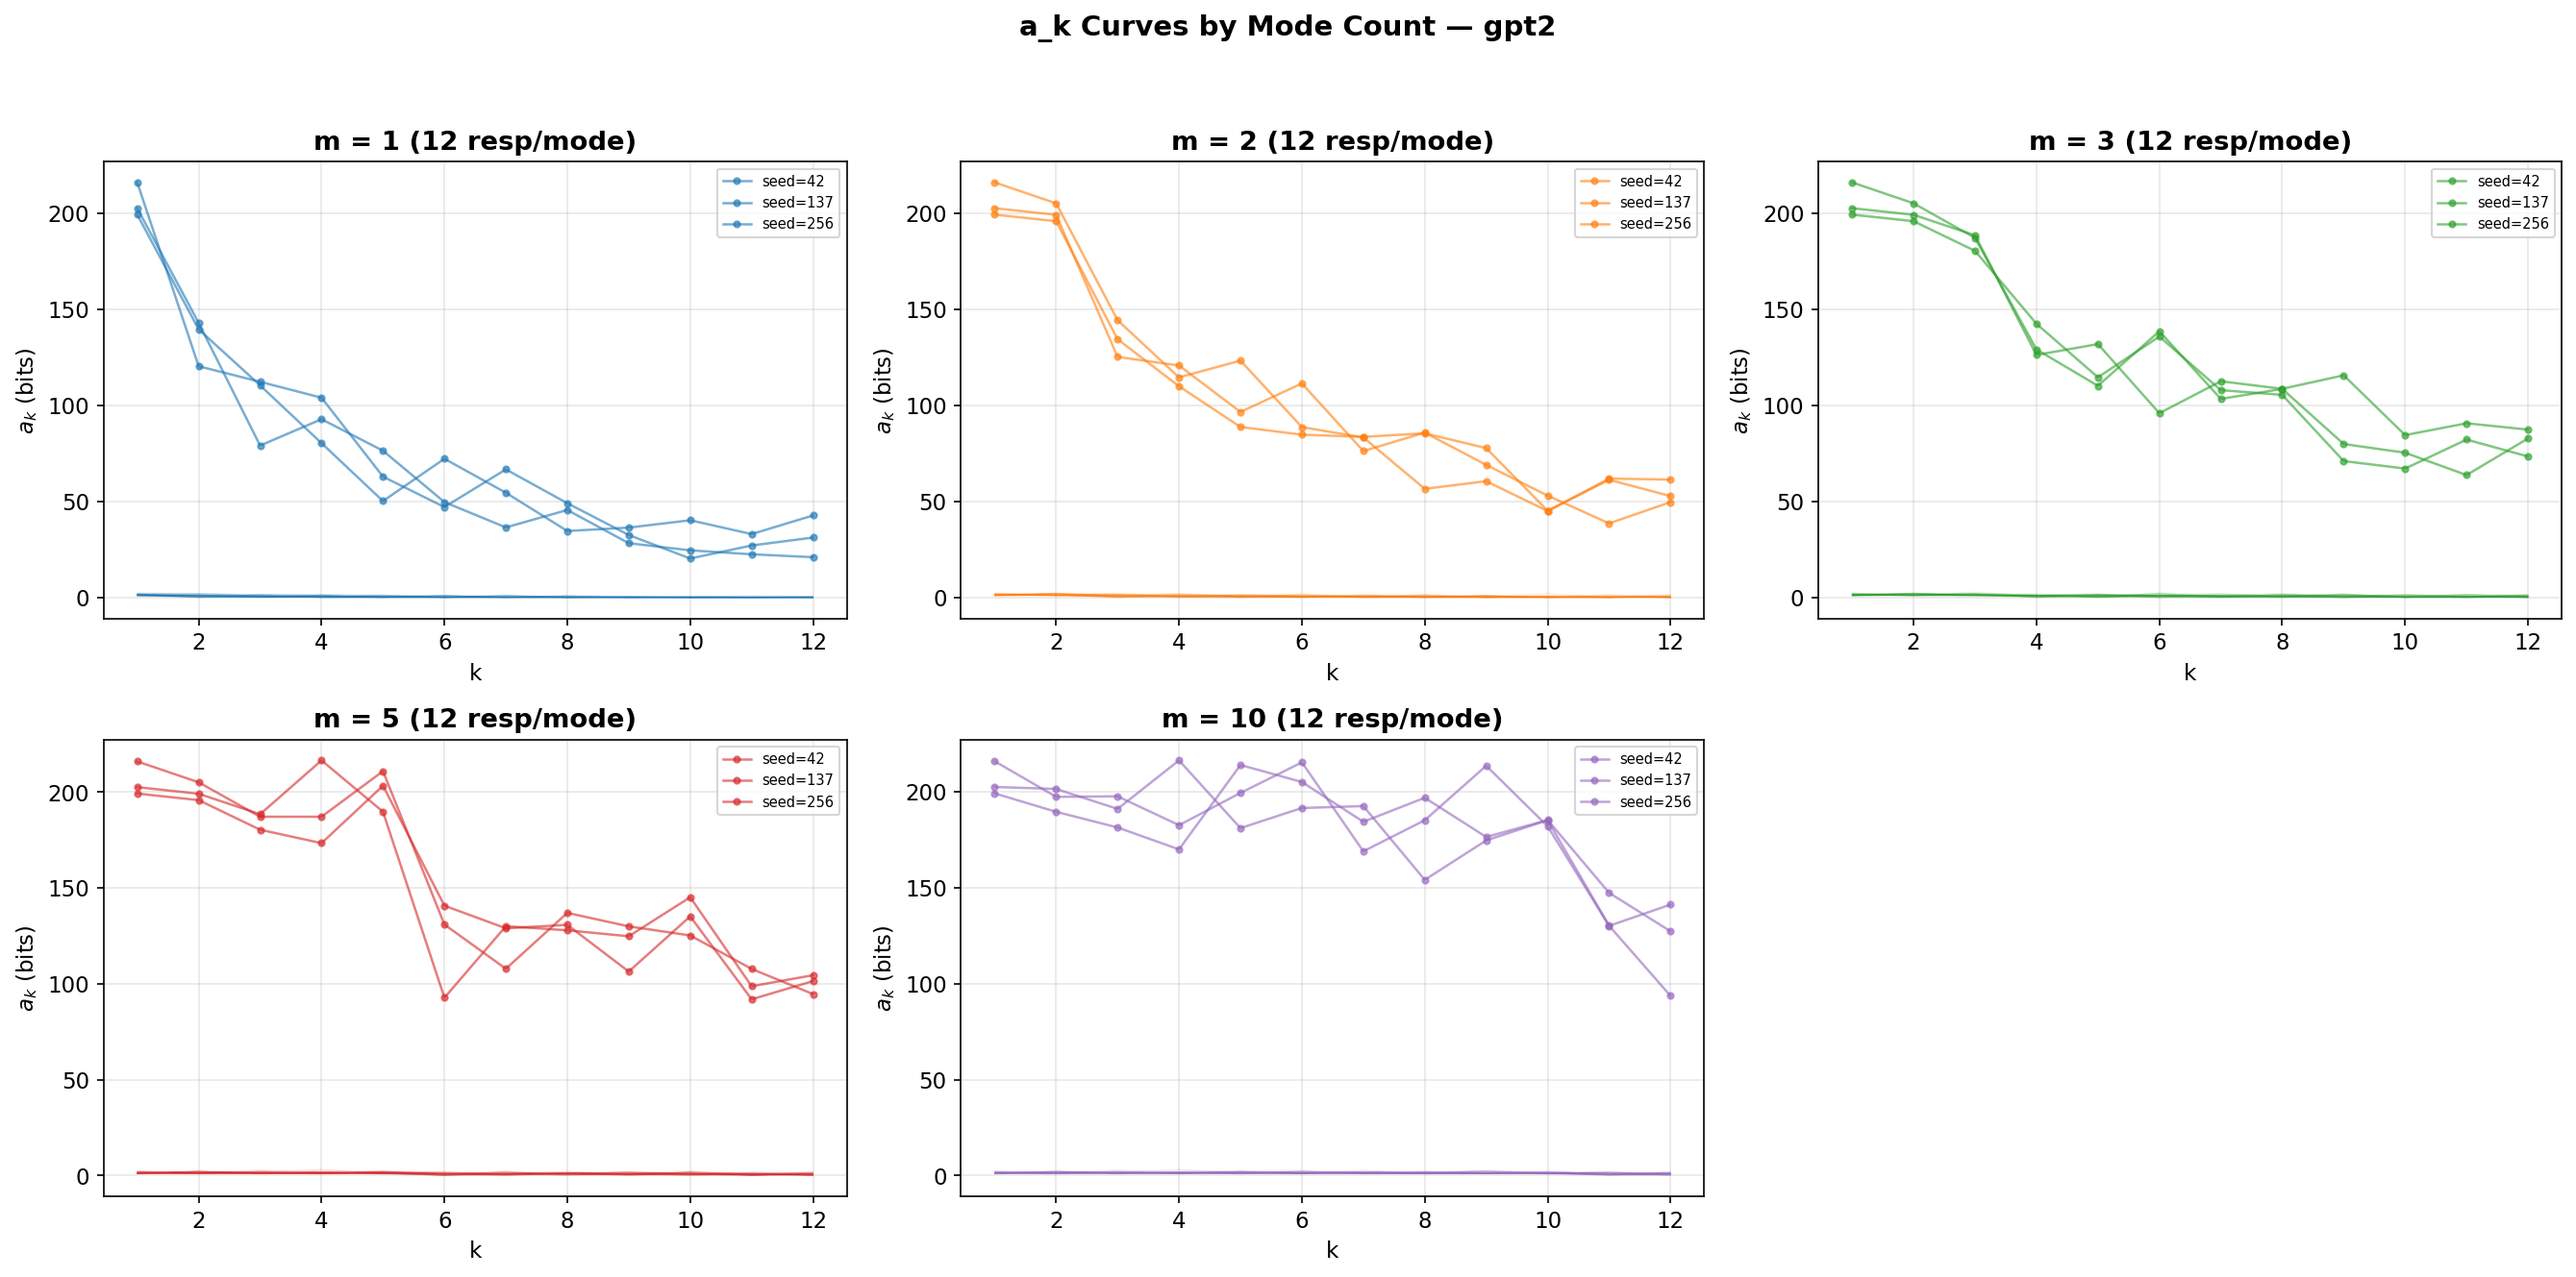
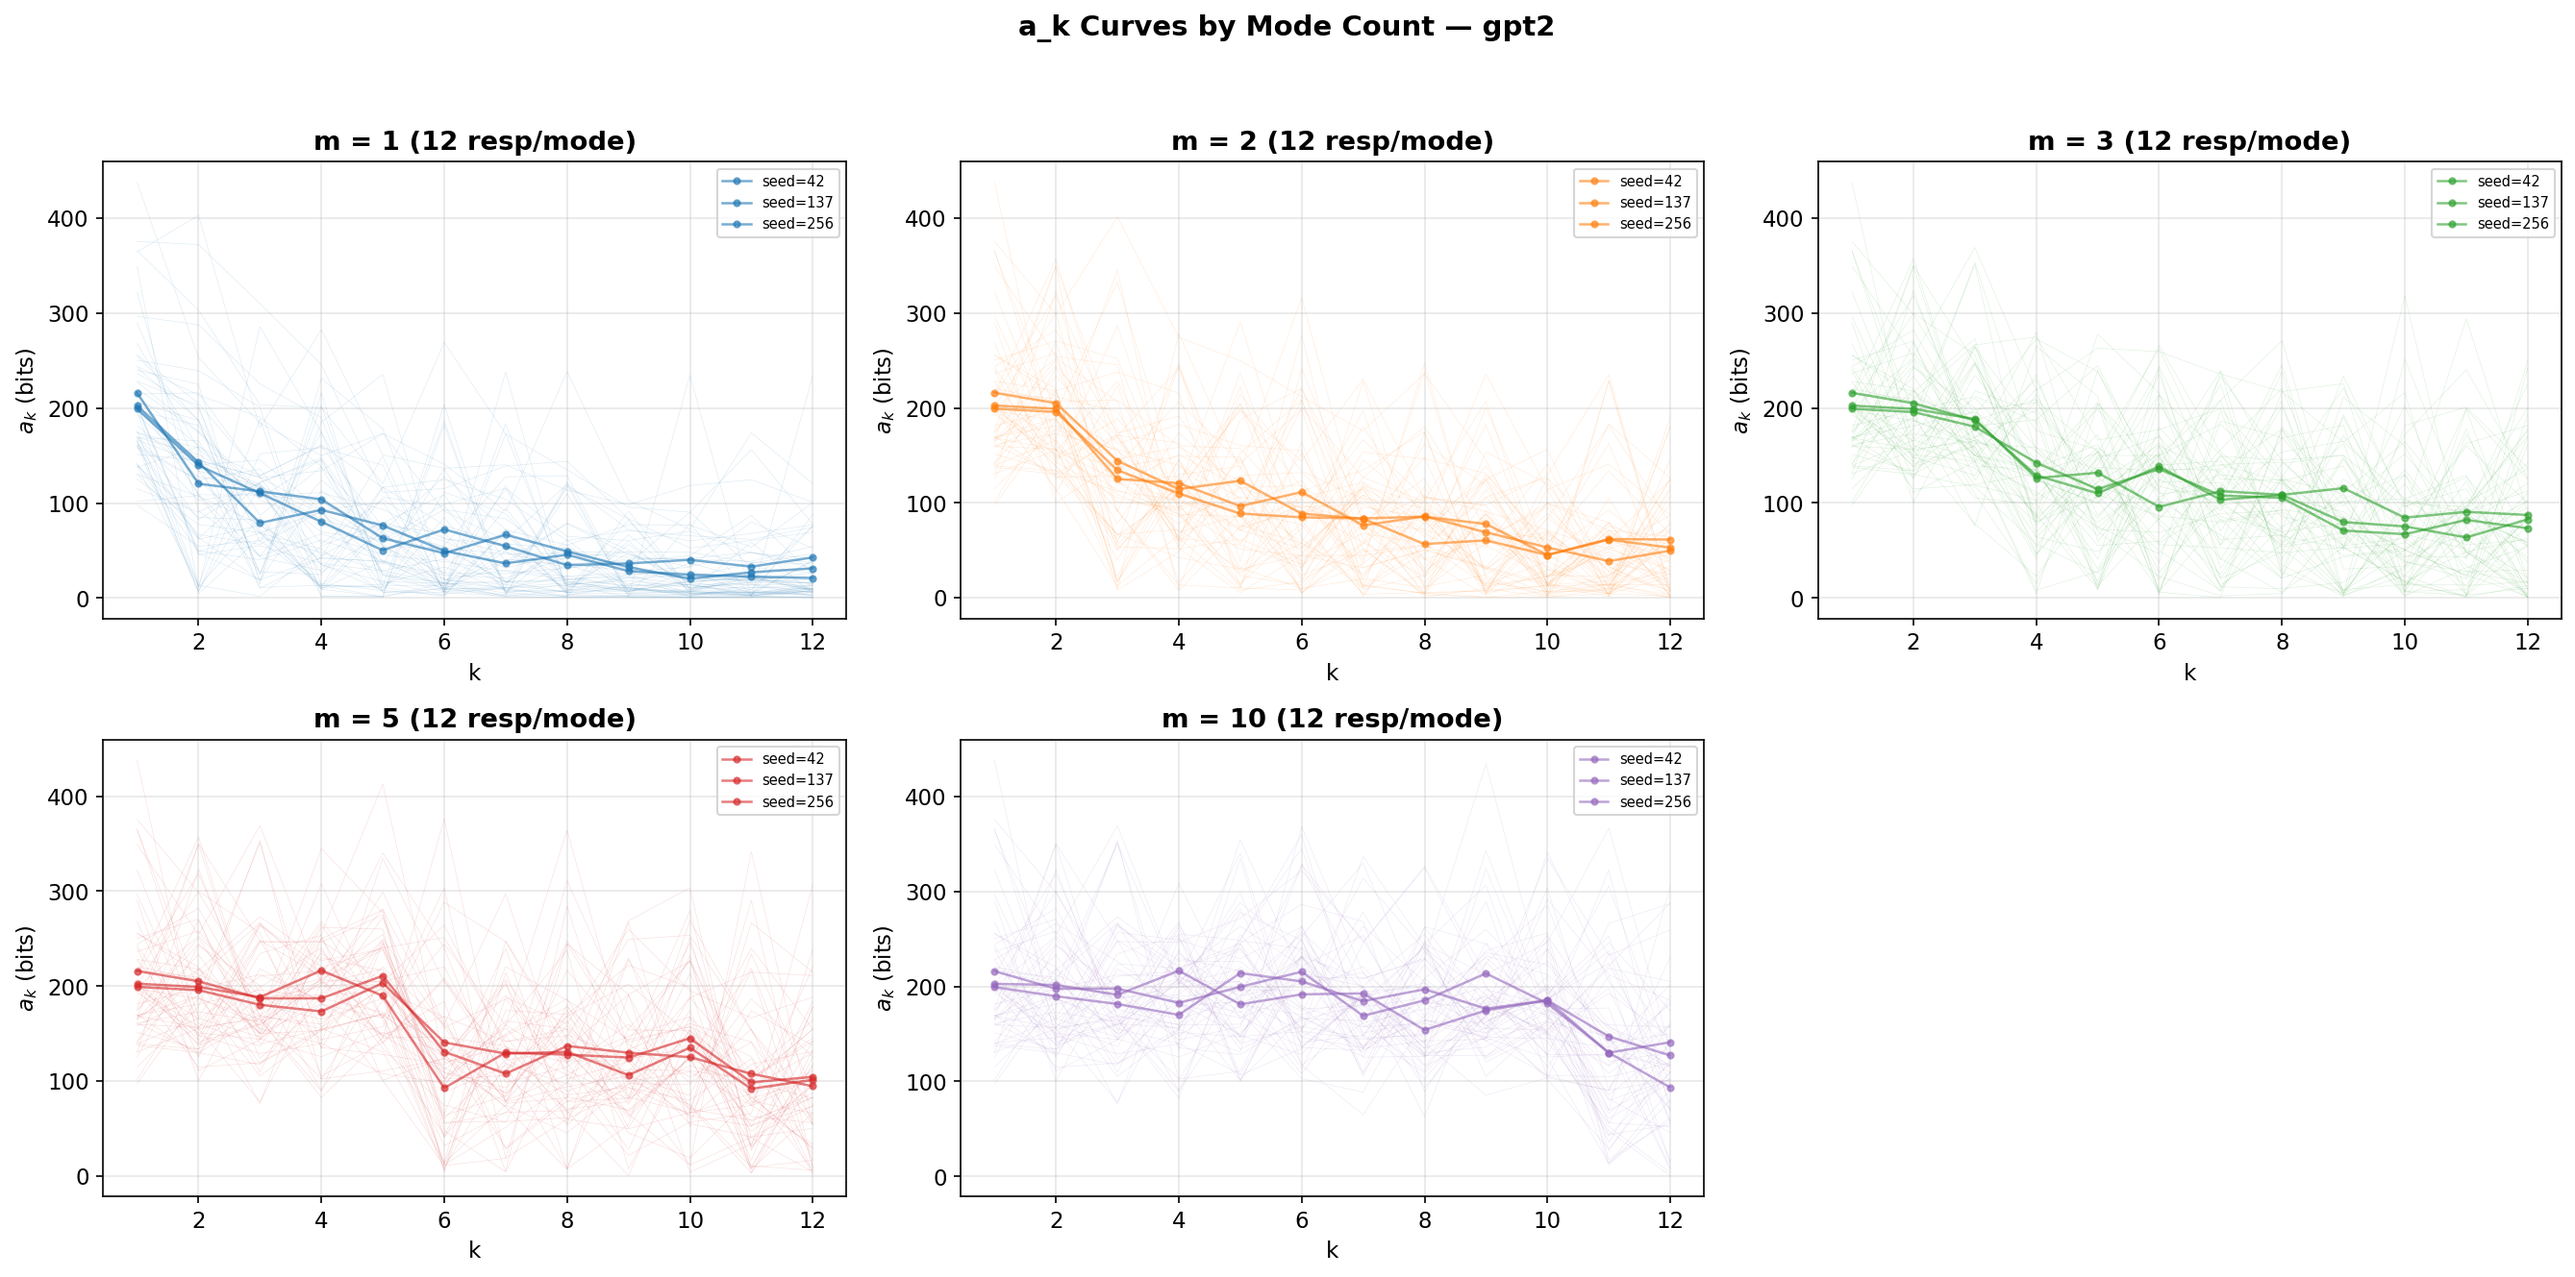
fix: plot per-permutation curves in total bits (not bits/byte)
The per-permutation a_k curves were being divided by byte counts before
plotting, converting them to bits/byte (~2-5) on a y-axis scaled for
total bits (~50-400). This caused mystery lines near zero.

diff --git a/scripts/plot_mode_count_results.py b/scripts/plot_mode_count_results.py
@@ -92,15 +92,10 @@ def plot_ak_curves_by_m(grouped: dict[int, list[dict]], figures_dir: Path, model
             ax.plot(k, curve, marker="o", markersize=3, linewidth=1.2, color=color,
                     alpha=0.6, label=f"seed={run['seed']}")
 
-            # Per-permutation curves
+            # Per-permutation curves (total bits, same as the averaged curve)
             if run.get("per_permutation_a_k_curves"):
-                perm_byte_counts = run.get("per_permutation_byte_counts")
-                for j, pc in enumerate(run["per_permutation_a_k_curves"]):
-                    if perm_byte_counts is not None:
-                        pb = [t / b if b > 0 else 0.0 for t, b in zip(pc, perm_byte_counts[j])]
-                    else:
-                        pb = pc
-                    ax.plot(k, pb, linewidth=0.3, alpha=0.15, color=color)
+                for pc in run["per_permutation_a_k_curves"]:
+                    ax.plot(k, pc, linewidth=0.3, alpha=0.15, color=color)
 
         ax.set_title(f"m = {m} ({m * runs[0].get('n_responses', 0) // m} resp/mode)", fontweight="bold")
         ax.set_xlabel("k")
